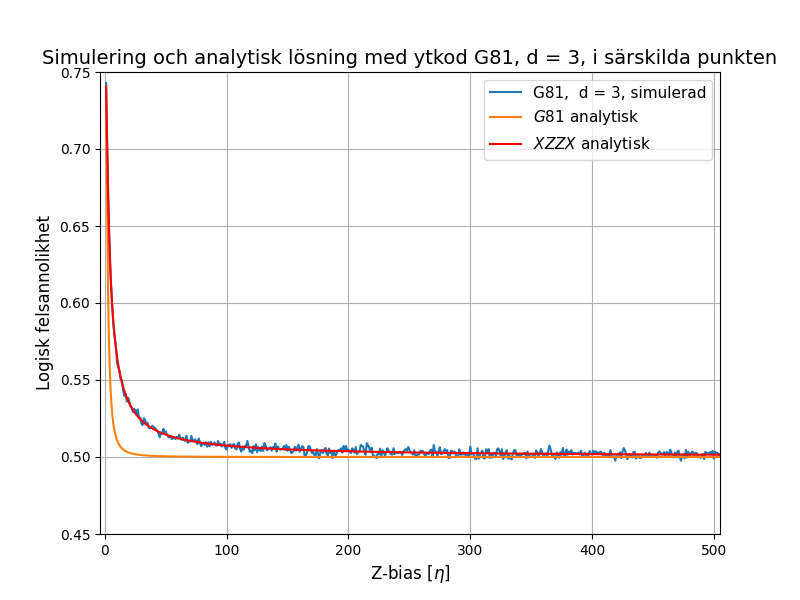
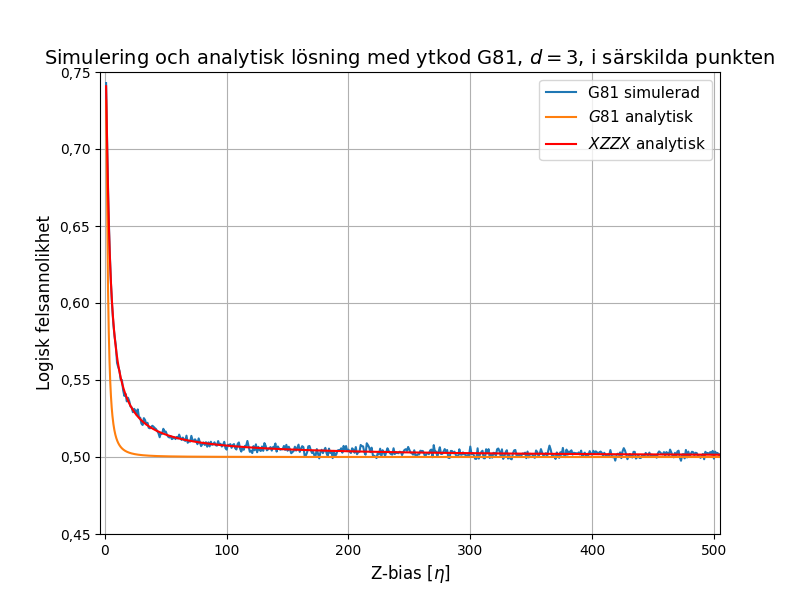
fix wrong folder sorting, update figures to Swedish format decimal point and insert latex characters

Changed region(s): [[0.0625, 0.06, 0.9688, 0.27]]

diff --git a/data/data_to_fig_sweep_d_p.py b/data/data_to_fig_sweep_d_p.py
@@ -1,7 +1,7 @@
 ### Initial imports
 import json
 import matplotlib.pyplot as plt
-
+import locale
 
 
 ### Load data
@@ -42,17 +42,19 @@ for run in data:
 error_probability_min = 0  # Kan också hämtas ur data för plottning, se label "error_probability"
 error_probability_max = 0.5
 
+locale.setlocale(locale.LC_NUMERIC, "sv_SE.utf8")
+plt.rcParams['axes.formatter.use_locale'] = True
 
 fig = plt.figure(1, figsize=(8, 6))
-plt.title('Simulering med ytkod G81, Z-bias = 30', fontsize=14)
-plt.xlabel('Fysisk felsannolikhet, p', fontsize=12)
+plt.title('Simulering med ytkod G81, Z-bias $\eta = 30$', fontsize=14)
+plt.xlabel('Fysisk felsannolikhet, $p$', fontsize=12)
 plt.ylabel('Logisk felsannolikhet', fontsize=12)
 plt.xlim(error_probability_min-0.05, error_probability_max+0.05)
 plt.ylim(-0.05, 0.65)
 
 # add data
 for code, xys in xy_map.items():
-    legend_label = f"{code[31:]}"
+    legend_label = f"${code[31:]}$"
     plt.plot(*zip(*xys), 'x-', label=legend_label)
 plt.legend(loc='upper left', fontsize=11)
 plt.grid()

diff --git a/data/data_to_fig_sweep_d_eta.py b/data/data_to_fig_sweep_d_eta.py
@@ -2,7 +2,7 @@
 import json
 import numpy as np
 import matplotlib.pyplot as plt
-
+import locale
 
 
 ### Load data
@@ -44,17 +44,20 @@ for run in data:
 d_min = 3  # Kan också hämtas ur data för plottning, se label "error_probability"
 d_max = 19
 
+locale.setlocale(locale.LC_NUMERIC, "sv_SE.utf8")
+plt.rcParams['axes.formatter.use_locale'] = True
+
 
 fig = plt.figure(1, figsize=(8, 6))
-plt.title('Simulering med ytkod G81 vid särskilda punkten för p', fontsize=14)
-plt.xlabel('Kodavstånd d', fontsize=12)
+plt.title('Simulering med ytkod G81 vid särskilda punkten för $p$', fontsize=14)
+plt.xlabel('Kodavstånd $d$', fontsize=12)
 plt.ylabel('Logisk felsannolikhet', fontsize=12)
 plt.xlim(d_min-1, d_max+1)
 plt.ylim(0.45, 0.6)
 
 # add data
 for error_model, xys in xy_map.items():
-    legend_label = f"{error_model[21:-11]}"
+    legend_label = f"$\eta${error_model[25:-11]}"
     plt.plot(*zip(*xys), 'x-', label=legend_label)
 plt.legend(loc='upper left', fontsize=11)
 plt.xticks(np.arange(3,21,2))

diff --git a/data/data_to_fig_sweep_eta.py b/data/data_to_fig_sweep_eta.py
@@ -2,6 +2,7 @@
 import json
 import matplotlib.pyplot as plt
 import numpy as np
+import locale
 
 ### Analytical solution
 
@@ -59,9 +60,11 @@ for run in data:
 eta_min = 1  # Kan också hämtas ur data för plottning, se label "error_probability"
 eta_max = 1000 
 
+locale.setlocale(locale.LC_NUMERIC, "sv_SE.utf8")
+plt.rcParams['axes.formatter.use_locale'] = True
 
 fig = plt.figure(1, figsize=(8, 6))
-plt.title('Simulering och analytisk lösning med ytkod G81, d = 3, i särskilda punkten', fontsize=14)
+plt.title('Simulering och analytisk lösning med ytkod G81, $d = 3$, i särskilda punkten', fontsize=14)
 plt.xlabel('Z-bias [$\eta$]', fontsize=12)
 plt.ylabel('Logisk felsannolikhet', fontsize=12)
 plt.xlim(eta_min-5, 500+5)
@@ -69,7 +72,7 @@ plt.ylim(0.45, 0.75)
 
 # add data
 for code, xys in xy_map.items():
-    legend_label = f"{code[15:18]}, {code[31:]}, simulerad"
+    legend_label = f"{code[15:18]} simulerad"
     
     plt.plot(*zip(*xys), label=legend_label)
 
